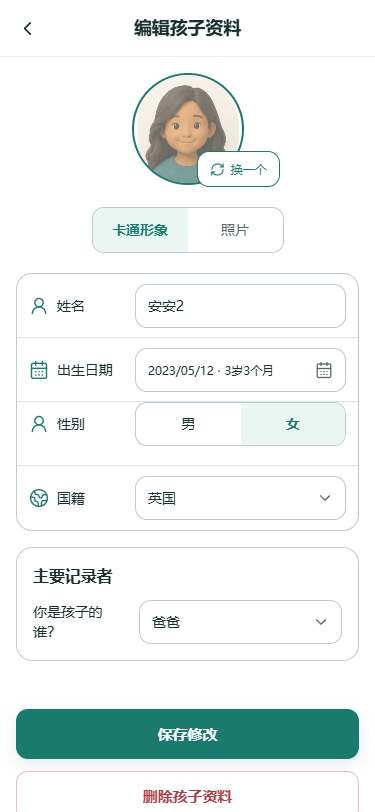
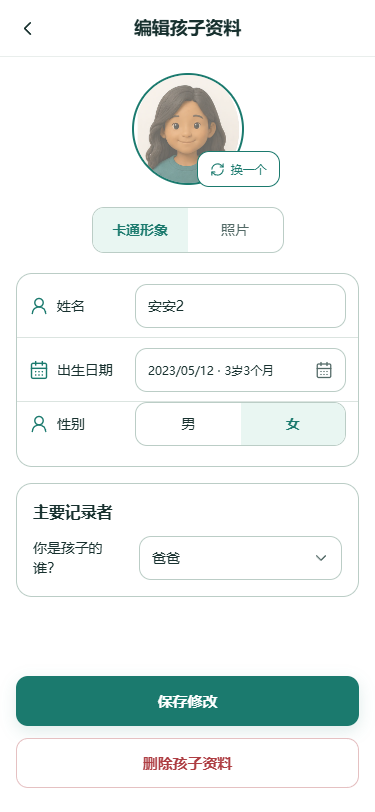
revert: remove child nationality selection

diff --git a/src/pages/Family/EditFamilyMemberPage.tsx b/src/pages/Family/EditFamilyMemberPage.tsx
@@ -1,5 +1,5 @@
 import { FormEvent, useEffect, useMemo, useRef, useState } from 'react'
-import { CalendarDays, ChevronDown, Globe2, UserRound } from 'lucide-react'
+import { CalendarDays, ChevronDown, UserRound } from 'lucide-react'
 import { useBlocker, useNavigate, useParams } from 'react-router-dom'
 import { Button, WebPageHeader } from '../../components/common'
 import { FamilyAvatarEditor, type FamilyAvatarMode } from '../../components/family/FamilyAvatarEditor'
@@ -12,7 +12,6 @@ import type { ChildRecorderRelationship, FamilyMemberApiDto, ProfileGender } fro
 import { childBirthdayErrorMessage, formatChildProfileAge, getChildBirthdayBounds, isChildProfileMember, validateChildBirthday } from '../../utils/childProfile'
 import { createClayAvatarConfig, parseClayAvatar, remapClayAvatarRole, serializeClayAvatar, type ClayAvatarConfig } from '../../utils/clayAvatar'
 import { parseVirtualAvatarId } from '../../utils/virtualAvatar'
-import { NATIONALITY_CODES } from '../../../shared/nationality-policy.mjs'
 
 type ChildGender = Extract<ProfileGender, 'male' | 'female'> | ''
 type SaveState = 'idle' | 'saving' | 'saved'
@@ -23,7 +22,6 @@ interface ChildEditorDraft {
   birthday: string
   gender: ChildGender
   name: string
-  nationality: string
   primaryRecorderRelationship: ChildRecorderRelationship | ''
   photoAvatar: string
 }
@@ -39,11 +37,6 @@ const recorderOptions = [
   ['other', '其他']
 ] as const satisfies readonly (readonly [ChildRecorderRelationship, string])[]
 const recorderValues = new Set<ChildRecorderRelationship>(recorderOptions.map(([value]) => value))
-const nationalityDisplayNames = new Intl.DisplayNames(['zh-CN'], { type: 'region' })
-const nationalityOptions = ['CN', ...NATIONALITY_CODES.filter((code) => code !== 'CN')]
-  .map((code) => [code, nationalityDisplayNames.of(code) ?? code] as const)
-  .concat([['OTHER', '其他'] as const])
-const nationalityValues = new Set(nationalityOptions.map(([value]) => value))
 const rowClass = 'grid min-h-[64px] grid-cols-[94px_minmax(0,1fr)] items-center gap-3 border-b border-border px-3 last:border-b-0 sm:grid-cols-[104px_minmax(0,1fr)] sm:px-4'
 const controlClass = 'h-11 min-w-0 w-full rounded-control border border-border-calm bg-surface px-3 text-sm text-heading outline-none transition focus:border-primary focus:ring-2 focus:ring-primary/15 disabled:bg-surface-muted disabled:text-text-secondary'
 
@@ -66,7 +59,6 @@ function makeDraft(member: FamilyMemberApiDto): ChildEditorDraft {
     birthday,
     gender,
     name: member.name,
-    nationality: member.nationality && nationalityValues.has(member.nationality) ? member.nationality : '',
     primaryRecorderRelationship: member.primaryRecorderRelationship && recorderValues.has(member.primaryRecorderRelationship) ? member.primaryRecorderRelationship : '',
     photoAvatar: isPhoto ? avatar : ''
   }
@@ -81,7 +73,6 @@ function draftFingerprint(draft: ChildEditorDraft) {
 
 function savedDataMatches(member: FamilyMemberApiDto, draft: ChildEditorDraft) {
   return member.relationship === 'child'
-    && (member.nationality ?? '') === draft.nationality
     && (member.primaryRecorderRelationship ?? '') === draft.primaryRecorderRelationship
 }
 
@@ -207,7 +198,6 @@ export function EditFamilyMemberPage() {
         name: draft.name.trim(),
         relationship: 'child',
         birthday: draft.birthday || null,
-        nationality: draft.nationality || null,
         gender: draft.gender || null,
         avatar: draft.avatarMode === 'photo' ? draft.photoAvatar : serializeClayAvatar(previewConfig),
         primaryRecorderRelationship: draft.primaryRecorderRelationship || null
@@ -306,22 +296,6 @@ export function EditFamilyMemberPage() {
               >{label}</button>)}
             </div>
           </fieldset>
-          <label className={rowClass}>
-            <span className="flex items-center gap-2 text-sm font-medium"><Globe2 aria-hidden="true" className="shrink-0 text-primary" size={20} strokeWidth={1.7} />国籍</span>
-            <span className="relative">
-              <select
-                aria-label="国籍"
-                className={`${controlClass} appearance-none pr-10`}
-                disabled={locked}
-                value={draft.nationality}
-                onChange={(event) => updateDraft({ nationality: event.target.value })}
-              >
-                <option value="">请选择国籍</option>
-                {nationalityOptions.map(([value, label]) => <option key={value} value={value}>{label}</option>)}
-              </select>
-              <ChevronDown aria-hidden="true" className="pointer-events-none absolute right-3 top-1/2 -translate-y-1/2 text-text-secondary" size={18} strokeWidth={1.7} />
-            </span>
-          </label>
         </section>
 
         <section className="mt-4 rounded-card border border-border-calm bg-surface p-4" aria-labelledby="recorder-heading">

diff --git a/tests/child-profile/child-profile.spec.ts b/tests/child-profile/child-profile.spec.ts
@@ -41,7 +41,6 @@ test('从已加载家人列表进入编辑页时不等待后台成员刷新', as
       relationship: 'child',
       gender: 'female',
       birthday: '2026-09-04',
-      nationality: 'CN',
       avatar: 'clay:v1:baby-girl:east-asian',
       caregivers: ['mother'],
       primaryRecorderRelationship: 'mother',
@@ -69,7 +68,6 @@ test('从已加载家人列表进入编辑页时不等待后台成员刷新', as
     await expect(page.locator('input[maxlength="50"]')).toHaveValue('加载测试宝宝', { timeout: 800 })
     expect(Date.now() - startedAt).toBeLessThan(1_000)
     await expect(page.getByLabel('你是孩子的谁？')).toHaveValue('mother')
-    await expect(page.getByLabel('国籍')).toHaveValue('CN')
     await expect(page.getByText('主要照顾者')).toHaveCount(0)
     await expect(page.getByRole('textbox', { name: '其他亲属' })).toHaveCount(0)
     await expect(page.getByRole('textbox', { name: '其他照看者' })).toHaveCount(0)
@@ -104,13 +102,12 @@ test('孩子资料完整交互、持久化、响应式和删除失败恢复', as
   await expect(page.getByRole('button', { name: '保存修改' })).toBeDisabled()
   await expect.poll(() => page.evaluate(() => document.documentElement.scrollWidth <= window.innerWidth + 1)).toBeTruthy()
   const profileRows = page.locator('section[aria-label="孩子基本资料"] > label, section[aria-label="孩子基本资料"] > div, section[aria-label="孩子基本资料"] > fieldset')
-  await expect(profileRows).toHaveCount(4)
-  for (let index = 0; index < 4; index += 1) {
+  await expect(profileRows).toHaveCount(3)
+  for (let index = 0; index < 3; index += 1) {
     expect((await profileRows.nth(index).boundingBox())?.height).toBeLessThanOrEqual(64)
   }
   await expect(page.getByRole('textbox', { name: '其他亲属' })).toHaveCount(0)
   await expect(page.getByLabel('你是孩子的谁？')).toHaveValue('mother')
-  await expect(page.getByLabel('国籍')).toHaveValue('CN')
   await expect(page.getByText('主要照顾者')).toHaveCount(0)
   await expect(page.getByRole('textbox', { name: '其他照看者' })).toHaveCount(0)
 
@@ -127,7 +124,6 @@ test('孩子资料完整交互、持久化、响应式和删除失败恢复', as
 
   await page.getByRole('button', { name: '换一个' }).click()
   await page.getByRole('button', { name: '女' }).click()
-  await page.getByLabel('国籍').selectOption('GB')
   await page.getByLabel('你是孩子的谁？').selectOption('father')
 
   await page.getByRole('button', { name: '照片' }).click()
@@ -155,7 +151,6 @@ test('孩子资料完整交互、持久化、响应式和删除失败恢复', as
   expect(persistedResponse.ok(), await persistedResponse.text()).toBeTruthy()
   const persisted = await persistedResponse.json()
   expect(persisted.caregivers).toEqual(['father', 'mother'])
-  expect(persisted.nationality).toBe('GB')
   expect(persisted.primaryRecorderRelationship).toBe('father')
   expect(persisted.otherRelative).toBe('姨妈')
   expect(persisted.otherCaregiver).toBeNull()
@@ -165,7 +160,6 @@ test('孩子资料完整交互、持久化、响应式和删除失败恢复', as
   await expect(page.getByRole('textbox', { name: '其他亲属' })).toHaveCount(0)
   await expect(page.getByRole('textbox', { name: '其他照看者' })).toHaveCount(0)
   await expect(page.getByLabel('你是孩子的谁？')).toHaveValue('father')
-  await expect(page.getByLabel('国籍')).toHaveValue('GB')
   await expect(page.getByText('主要照顾者')).toHaveCount(0)
   await expect.poll(() => page.evaluate(() => document.documentElement.scrollWidth <= window.innerWidth + 1)).toBeTruthy()
   await page.getByRole('button', { name: '卡通形象' }).click()

diff --git a/src/pages/Family/EditFamilyMemberPage.contract.test.ts b/src/pages/Family/EditFamilyMemberPage.contract.test.ts
@@ -11,9 +11,6 @@ test('孩子编辑页只呈现冻结的信息架构', () => {
   assert.match(pageSource, /姓名/)
   assert.match(pageSource, /出生日期/)
   assert.match(pageSource, /性别/)
-  assert.match(pageSource, /国籍/)
-  assert.match(pageSource, /请选择国籍/)
-  assert.match(pageSource, /NATIONALITY_CODES/)
   assert.match(pageSource, /主要记录者/)
   assert.match(pageSource, /你是孩子的谁？/)
   assert.match(pageSource, /请选择关系/)
@@ -33,8 +30,6 @@ test('孩子编辑页使用真实数据、统一草稿和服务端回读确认',
   assert.match(pageSource, /isChildProfileMember/)
   assert.match(pageSource, /relationship: 'child'/)
   assert.match(pageSource, /member\.primaryRecorderRelationship/)
-  assert.match(pageSource, /member\.nationality/)
-  assert.match(pageSource, /nationality: draft\.nationality \|\| null/)
   assert.match(pageSource, /primaryRecorderRelationship: draft\.primaryRecorderRelationship \|\| null/)
   assert.equal(pageSource.includes('draft.caregivers'), false)
   assert.equal(pageSource.includes('draft.otherRelative'), false)

diff --git a/src/services/familyMembers.ts b/src/services/familyMembers.ts
@@ -62,7 +62,7 @@ export const familyMemberService = {
   update(
     memberId: string,
     input: Partial<Pick<FamilyMemberApiDto,
-      | 'name' | 'relationship' | 'birthday' | 'nationality' | 'gender' | 'avatar'
+      | 'name' | 'relationship' | 'birthday' | 'gender' | 'avatar'
       | 'heightCm' | 'weightKg' | 'bloodType'
       | 'waistCircumferenceCm' | 'bodyFatPercentage' | 'headCircumferenceCm' | 'rhBloodType'
       | 'caregivers' | 'primaryRecorderRelationship' | 'otherRelative' | 'otherCaregiver'

diff --git a/src/types/index.ts b/src/types/index.ts
@@ -62,7 +62,6 @@ export interface FamilyMemberApiDto {
   relationship: ApiMemberRelationship
   gender: ApiMemberGender
   birthday: string | null
-  nationality?: string | null
   avatar: string | null
   heightCm?: number | null
   weightKg?: number | null
